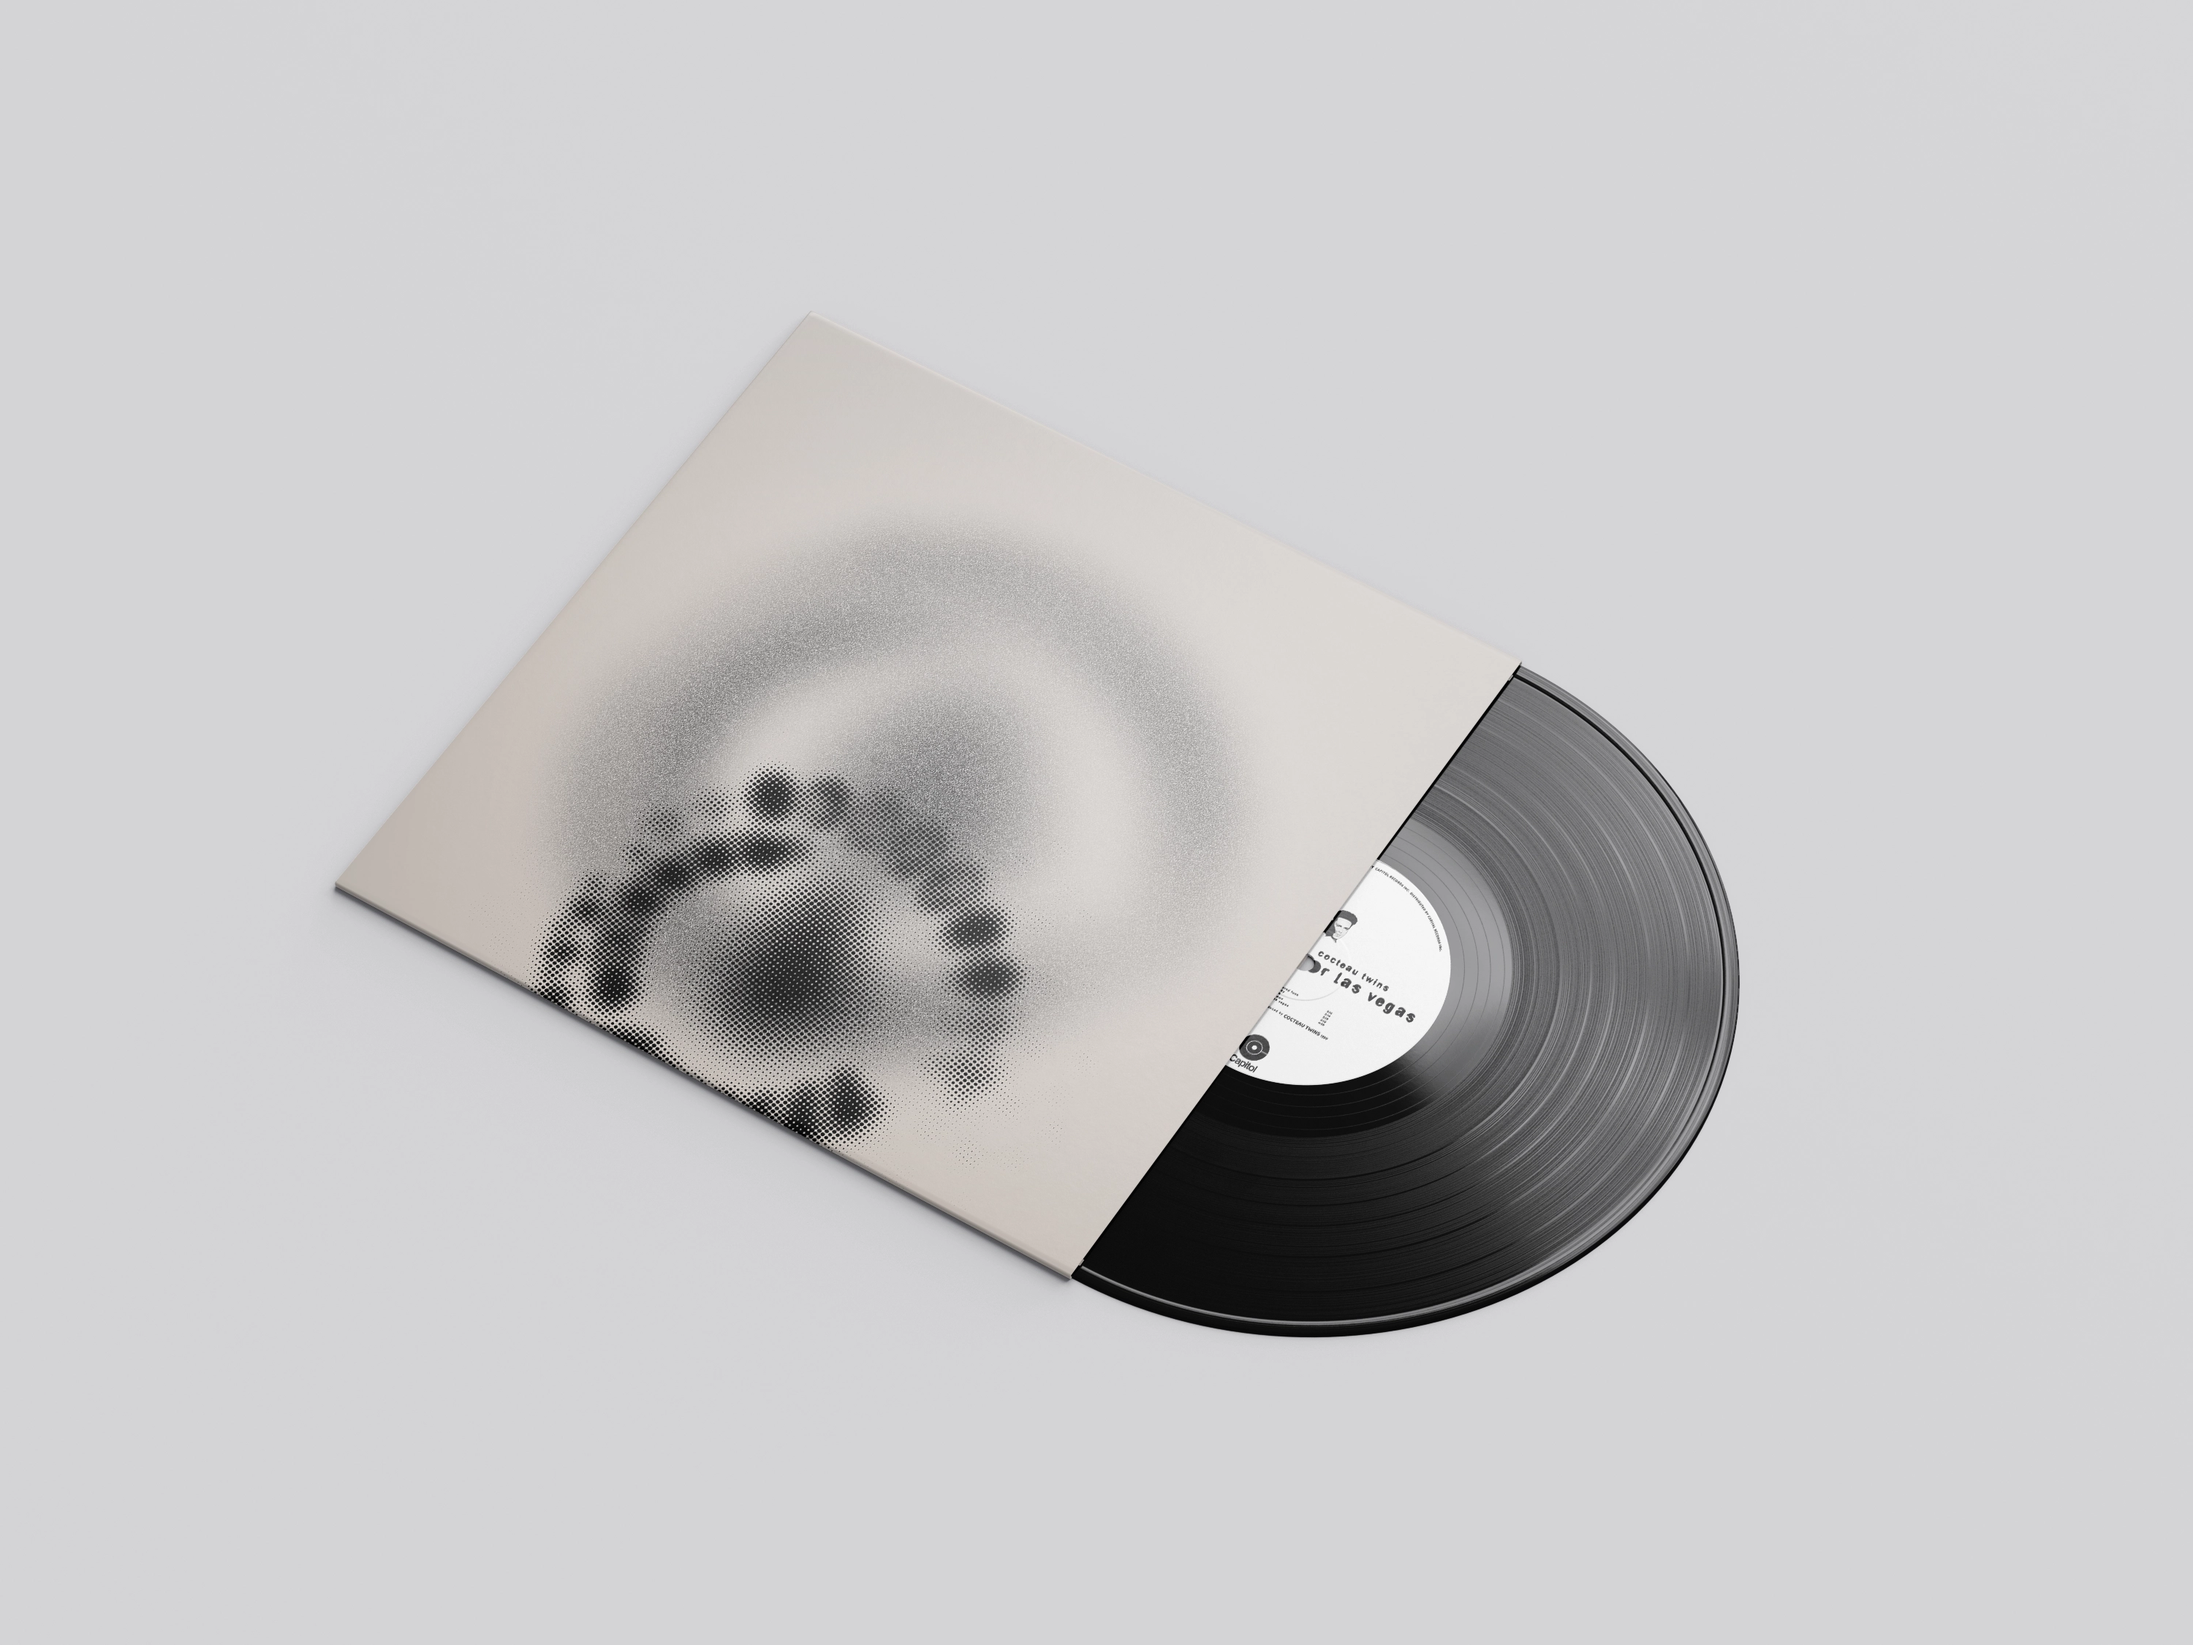
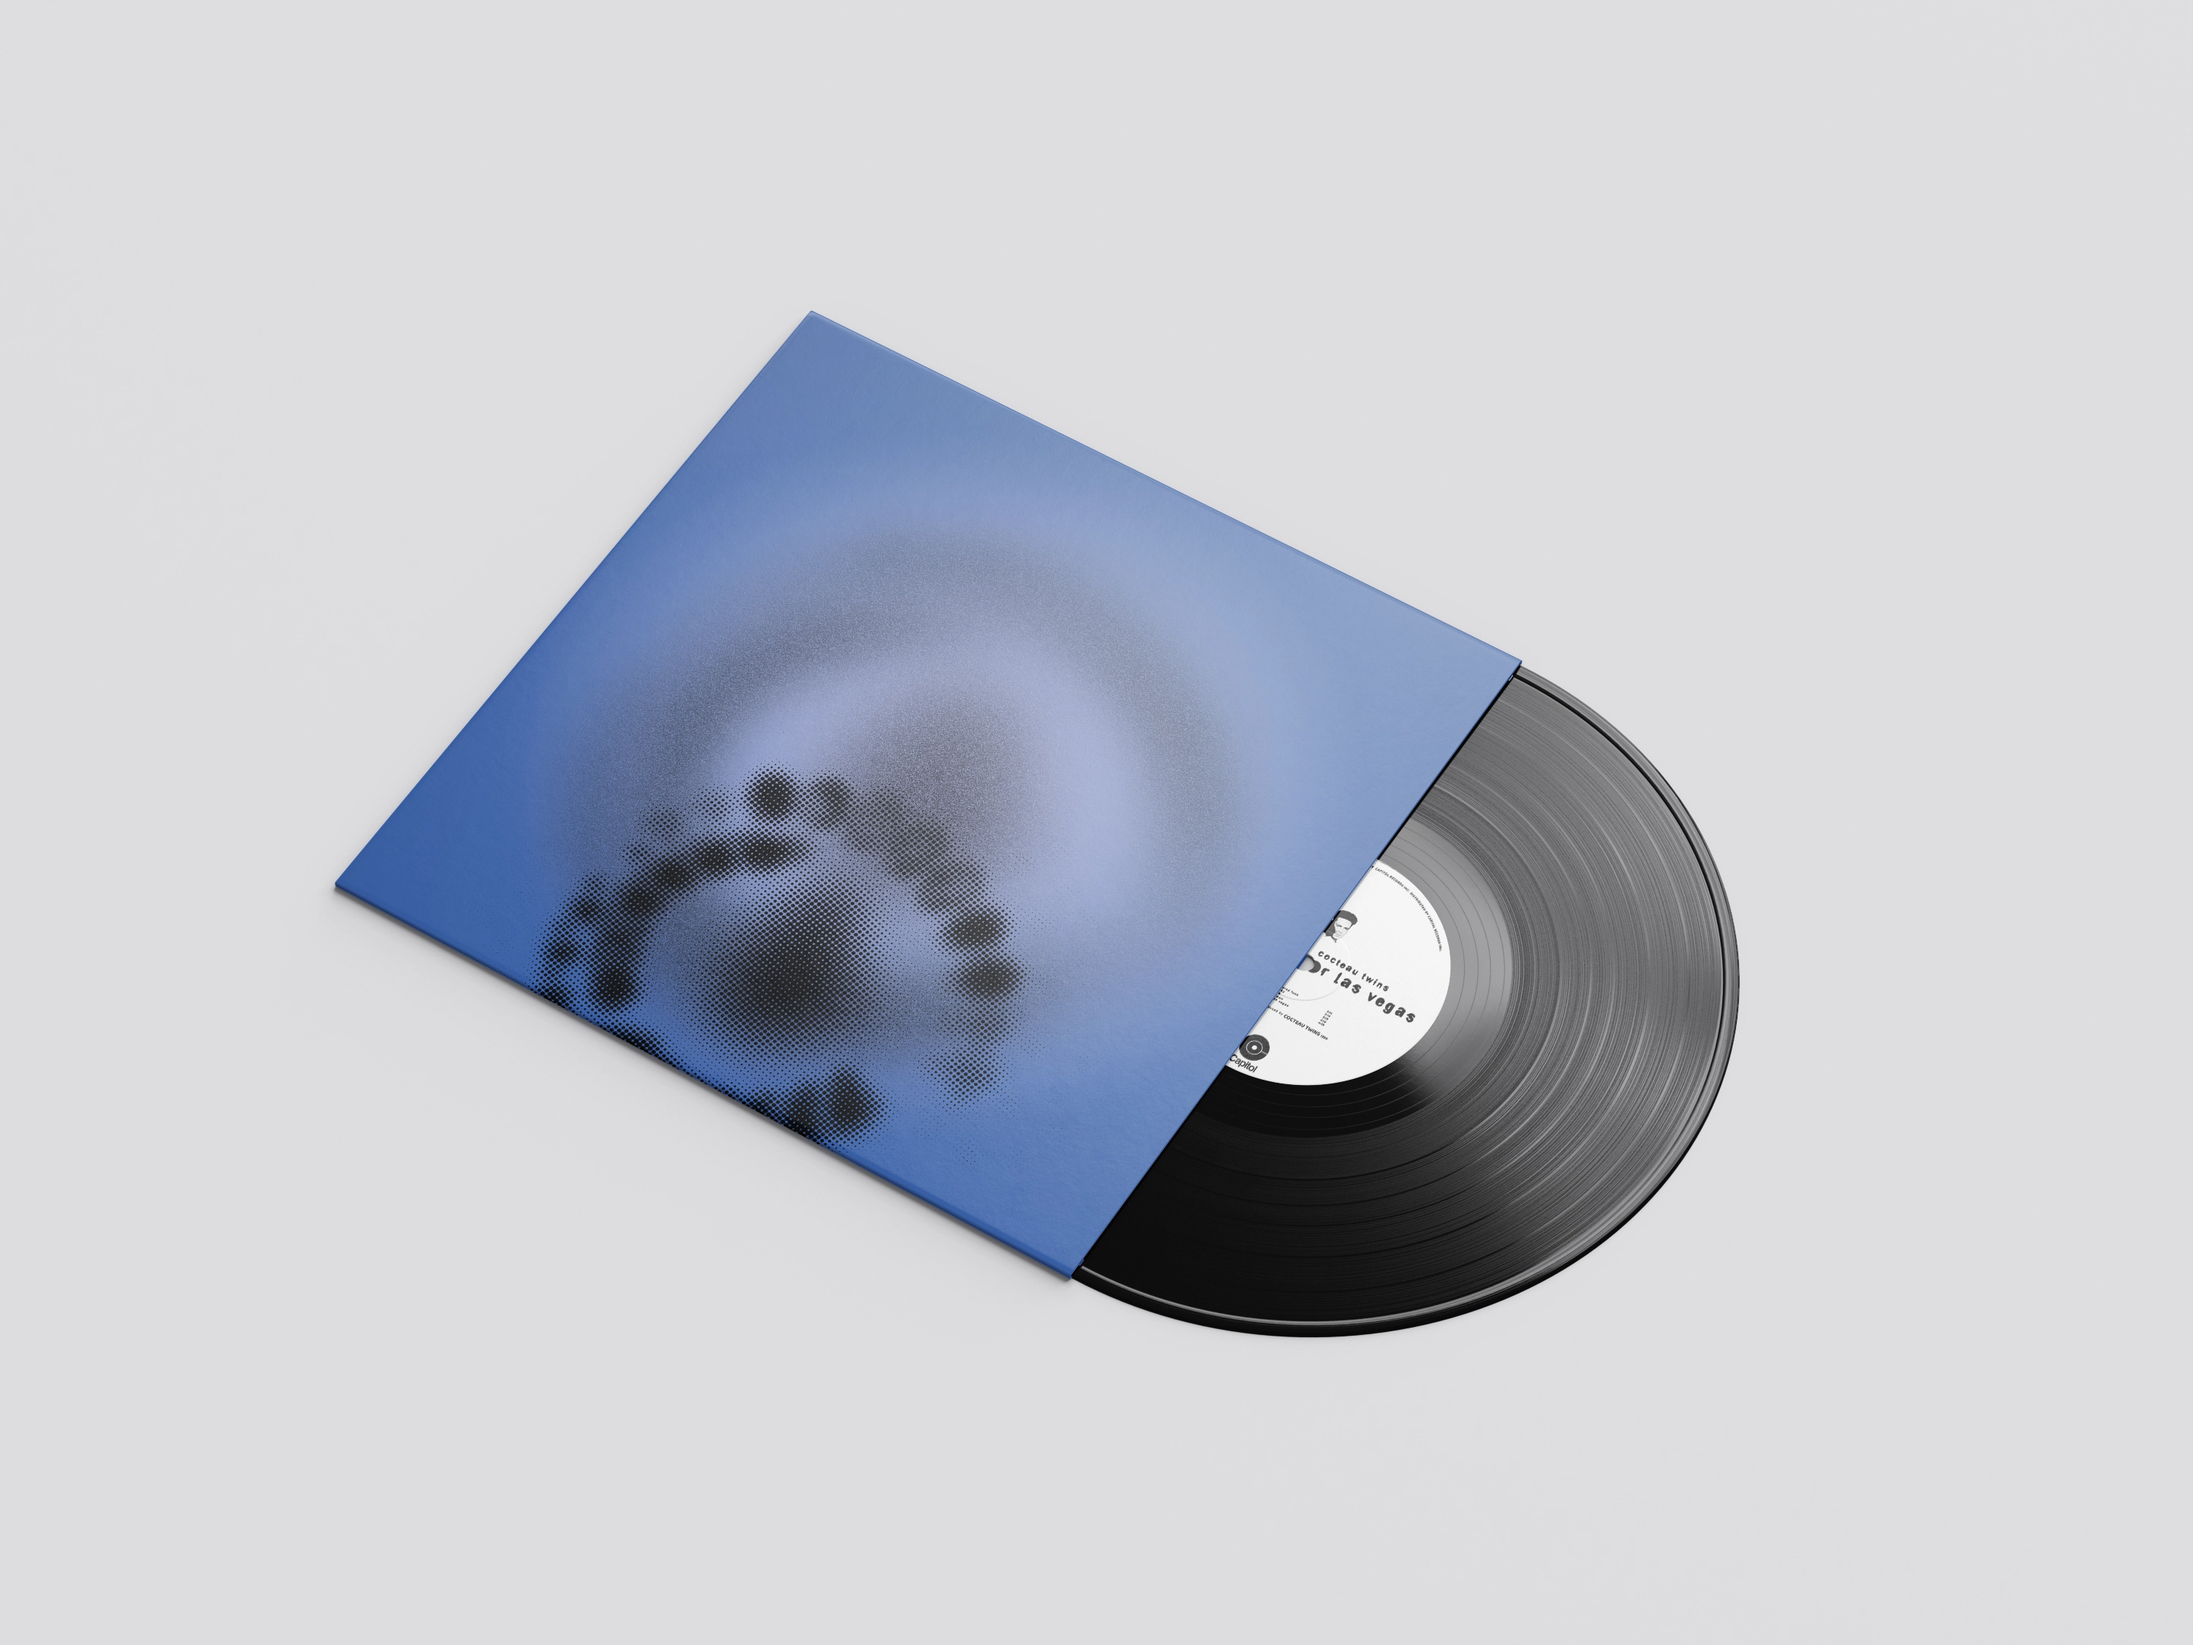
heneolavaygga

Changed region(s): [[0.155, 0.1867, 0.713, 0.7778]]

diff --git a/Work/counterpart.html b/Work/counterpart.html
@@ -20,14 +20,9 @@
             <div class="text-section">
                 <h1>Counterpart</h1>
                 <h2>Newspaper</h2>
-                <p>Entering the world an identical twin, I have always found the dual nature of identity to be an intriguing subject. <em>Counterpart</em> is an experimental publication exploring the notion of existing as a constituent of a whole, reflecting on the lived experience of twinhood. It contemplates the delicate balance between symmetry and duality, where the self is simultaneously distinct and deeply linked to another.
-                    <br>
-                    <br>
-                    Acknowledging the complexities of this existence, I consider how this dynamic intertwines with a broader narrative - one where twin identity is often misunderstood, oversimplified, and commodified by the wider world.
-                    <br>
-                    <br>
-                    The newspaper format serves as a vessel that mirrors the accessibility and misinterpretation of twin identity. Through this medium, <em>Counterpart</em> captures the inherent tension of being part of a larger whole, delving into the intricacies of an identity that exists simultaneously revealed and concealed.
-                </p>
+                <p>Entering the world an identical twin, I have always found the dual nature of identity to be an intriguing subject. <em>Counterpart</em> is an experimental publication exploring the notion of existing as a constituent of a whole, reflecting on the lived experience of twinhood. It contemplates the delicate balance between symmetry and duality, where the self is simultaneously distinct and deeply linked to another.</p>
+                <p>Acknowledging the complexities of this existence, I consider how this dynamic intertwines with a broader narrative - one where twin identity is often misunderstood, oversimplified, and commodified by the wider world.</p>
+                <p>The newspaper format serves as a vessel that mirrors the accessibility and misinterpretation of twin identity. Through this medium, <em>Counterpart</em> captures the inherent tension of being part of a larger whole, delving into the intricacies of an identity that exists at once revealed and concealed.</p>
             </div>
             <div class="image-section">
                 <img src="../Assets/Images/counterpart_thumbnail.webp">

diff --git a/Work/caribbean-blue.html b/Work/caribbean-blue.html
@@ -21,16 +21,9 @@
                 <h1>Caribbean Blue</h1>
                 <h2>Photo series</h2>
                 <p>A response to the chromatic impulse; the aversion of colour, a mistrust of colour, a fear of contamination or corruption through colour.
-                    <a href="../Assets/Images/Chromophobia.pdf" target="_blank"><em>(Chromophobia - David Batchelor, 2000)</em></a>
-                    <br>
-                    <br>
-                    How was colour ever considered something ‘foreign’ and unworthy of serious consideration, when the natural world offers so much?
-                    <br>
-                    <br>
-                    A journey through place, from land to beyond, shot on 35mm film.
-                    Across the open sky, up the highest mountains, down steep cliffs, and out to the endless sea.
-                    Colour is neither trivial nor threatening, it is the essence of life itself.
-                </p>
+                    <a href="../Assets/Images/Chromophobia.pdf" target="_blank"><em>(Chromophobia - David Batchelor, 2000)</em></a></p>
+                <p>How was colour ever considered something ‘foreign’ and unworthy of serious consideration, when the natural world offers so much?</p>
+                <p>A journey through place, from land to beyond, shot on 35mm film. Across the open sky, up the highest mountains, down steep cliffs, and out to the endless sea. Colour is neither trivial nor threatening, it is the essence of life itself.</p>
             </div>
             <div class="image-section">
                 <img src="../Assets/Images/cb-3.jpg">

diff --git a/Work/corporeal.html b/Work/corporeal.html
@@ -20,15 +20,9 @@
             <div class="text-section">
                 <h1>Corporeal</h1>
                 <h2>Photobook</h2>
-                <p>An exploration of demeanour and disposition through physical form, crafted using 90gsm vellum and ink.
-                    <br>
-                    <br>
-                    Investigating ephemerality, moments of tenderness. What is revealed through gesture in the absence of facial expression?
-                    <br>
-                    <br>
-                    Leveraging transparency to highlight how all captured moments together form a comprehensive study, parts of a greater whole;
-                    multiple frames are visible simultaneously as all frames are interdependent.
-                </p>
+                <p>An exploration of demeanour and disposition through physical form, crafted using 90gsm vellum and ink.</p>
+                <p>Investigating ephemerality, moments of tenderness. What is revealed through gesture in the absence of facial expression?</p>
+                <p>Leveraging transparency to highlight how all captured moments together form a comprehensive study, parts of a bigger picture; multiple frames are visible simultaneously as all frames are interdependent.</p>
             </div>
             <div class="image-section">
                 <img src="../Assets/Images/corporeal-front.webp">

diff --git a/Work/heaven-or-las-vegas.html b/Work/heaven-or-las-vegas.html
@@ -20,13 +20,15 @@
             <div class="text-section">
                 <h1>Heaven or Las Vegas</h1>
                 <h2>Music visual identity</h2>
-                <p>Record cover and poster designs for <em>Heaven or Las Vegas,</em> Cocteau Twin's 1990 studio album.</p>
+                <p>Front and back covers, sleeve, label and poster designs for <em>Heaven or Las Vegas,</em> Cocteau Twin's 1990 studio album.</p>
+                <p>Visuals crafted using calligraphy and alcohol inks.</p>
             </div>
             <div class="image-section">
                 <img src="../Assets/Images/holv-cd.webp">
                 <img src="../Assets/Images/holv-back.webp">
                 <img src="../Assets/Images/holv-front.webp">
                 <img src="../Assets/Images/holv-sleeve.webp">
+                <img src="../Assets/Images/holv-posters.webp">
             </div>
         </div>
     </main>
